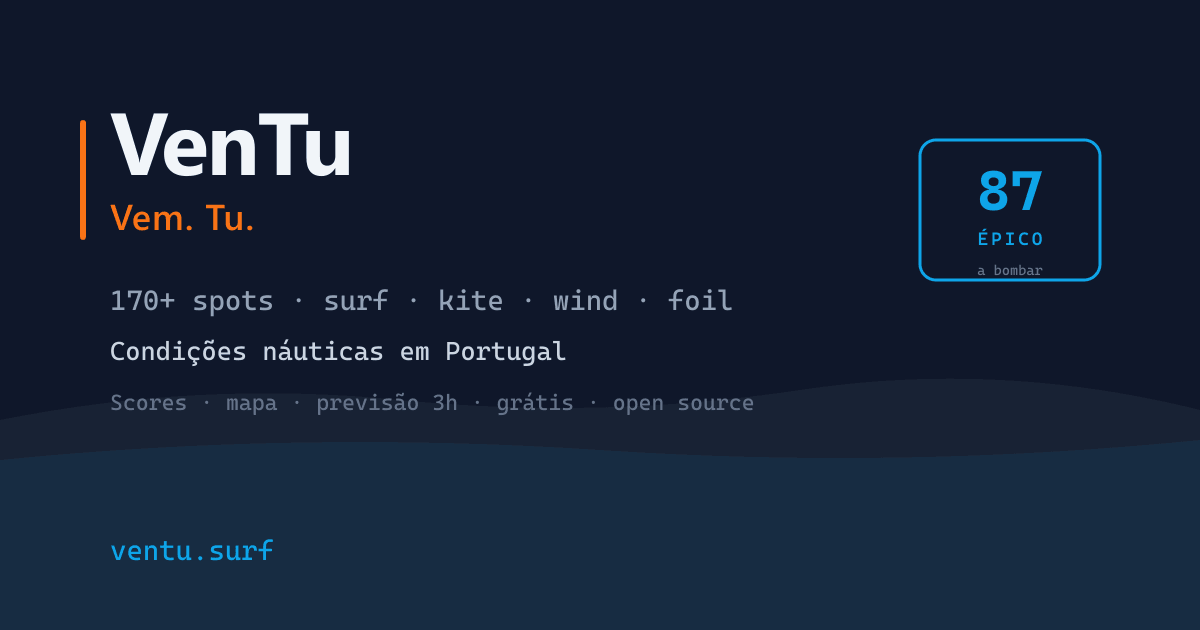
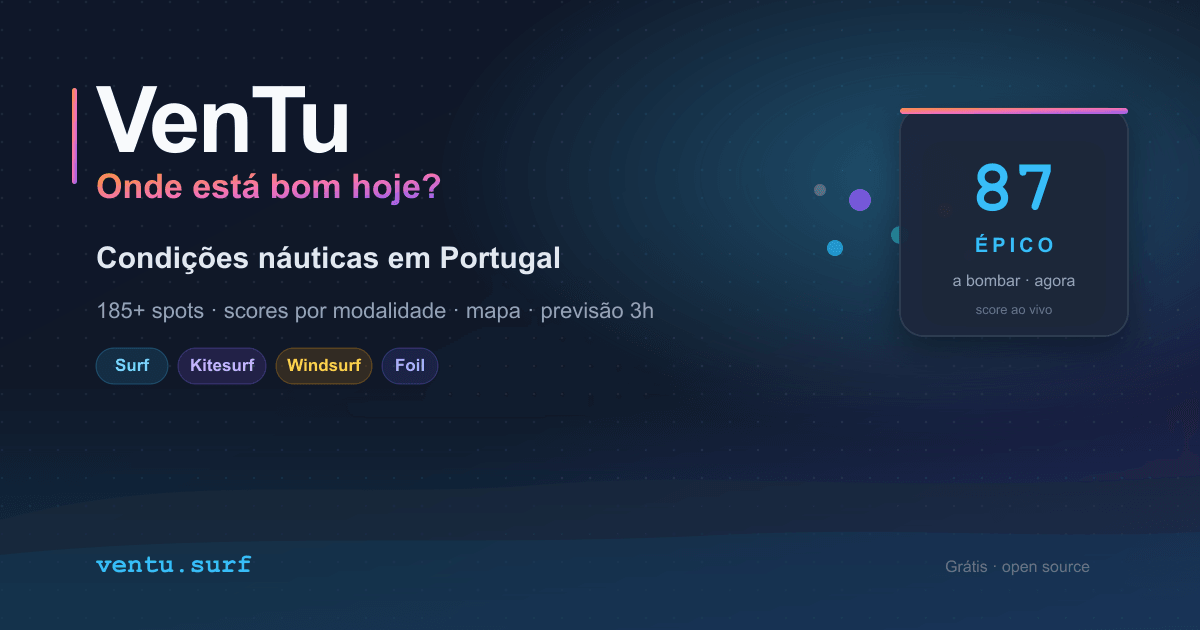
feat(seo): professional Open Graph images for link sharing
Redesign default OG card and generate branded per-spot share images at build time instead of raw satellite thumbnails.

diff --git a/src/lib/seo.ts b/src/lib/seo.ts
@@ -86,7 +86,9 @@ export function buildPageMetadata(input: PageSeoInput): Metadata {
     url: imagePath,
     width: DEFAULT_OG_IMAGE.width,
     height: DEFAULT_OG_IMAGE.height,
-    type: DEFAULT_OG_IMAGE.type,
+    type: (imagePath.endsWith('.jpg') || imagePath.endsWith('.jpeg')
+      ? 'image/jpeg'
+      : 'image/png') as 'image/jpeg' | 'image/png',
     alt: imageAlt,
   };
 
@@ -149,12 +151,13 @@ export function buildHomeMetadata(locale: 'pt' | 'en'): Metadata {
 }
 
 export function buildSpotOgImagePath(slug: string): string {
-  return `/images/spots/${slug}.jpg`;
+  return `/images/og/${slug}.jpg`;
 }
 
 export function resolveSpotOgImagePath(slug: string): string {
-  const file = path.join(process.cwd(), 'public', 'images', 'spots', `${slug}.jpg`);
-  return existsSync(file) ? buildSpotOgImagePath(slug) : DEFAULT_OG_IMAGE_PATH;
+  const branded = path.join(process.cwd(), 'public', 'images', 'og', `${slug}.jpg`);
+  if (existsSync(branded)) return buildSpotOgImagePath(slug);
+  return DEFAULT_OG_IMAGE_PATH;
 }
 
 export function buildSpotMetadata(

diff --git a/README.md b/README.md
@@ -79,7 +79,7 @@ Copia `.env.example` para `.env.local`. O site funciona sem secrets (dados em `p
 | `npm run test:e2e` | E2E (Playwright) |
 | `npm run data:update` | Condições + observações + índice + notícias |
 | `npm run sitemap:generate` | Regenerar `public/sitemap.xml` |
-| `npm run og:generate` | Regenerar `public/og-image.png` (social previews) |
+| `npm run og:generate` | Regenerar `public/og-image.png` + `public/images/og/*.png` (previews sociais) |
 | `npm run dawn-patrol:generate` | Dawn Patrol diário |
 | `npm run spots:validate` | Validar `src/lib/spots.ts` |
 | `npm run alerts:preflight` | Verificar setup alertas email |
